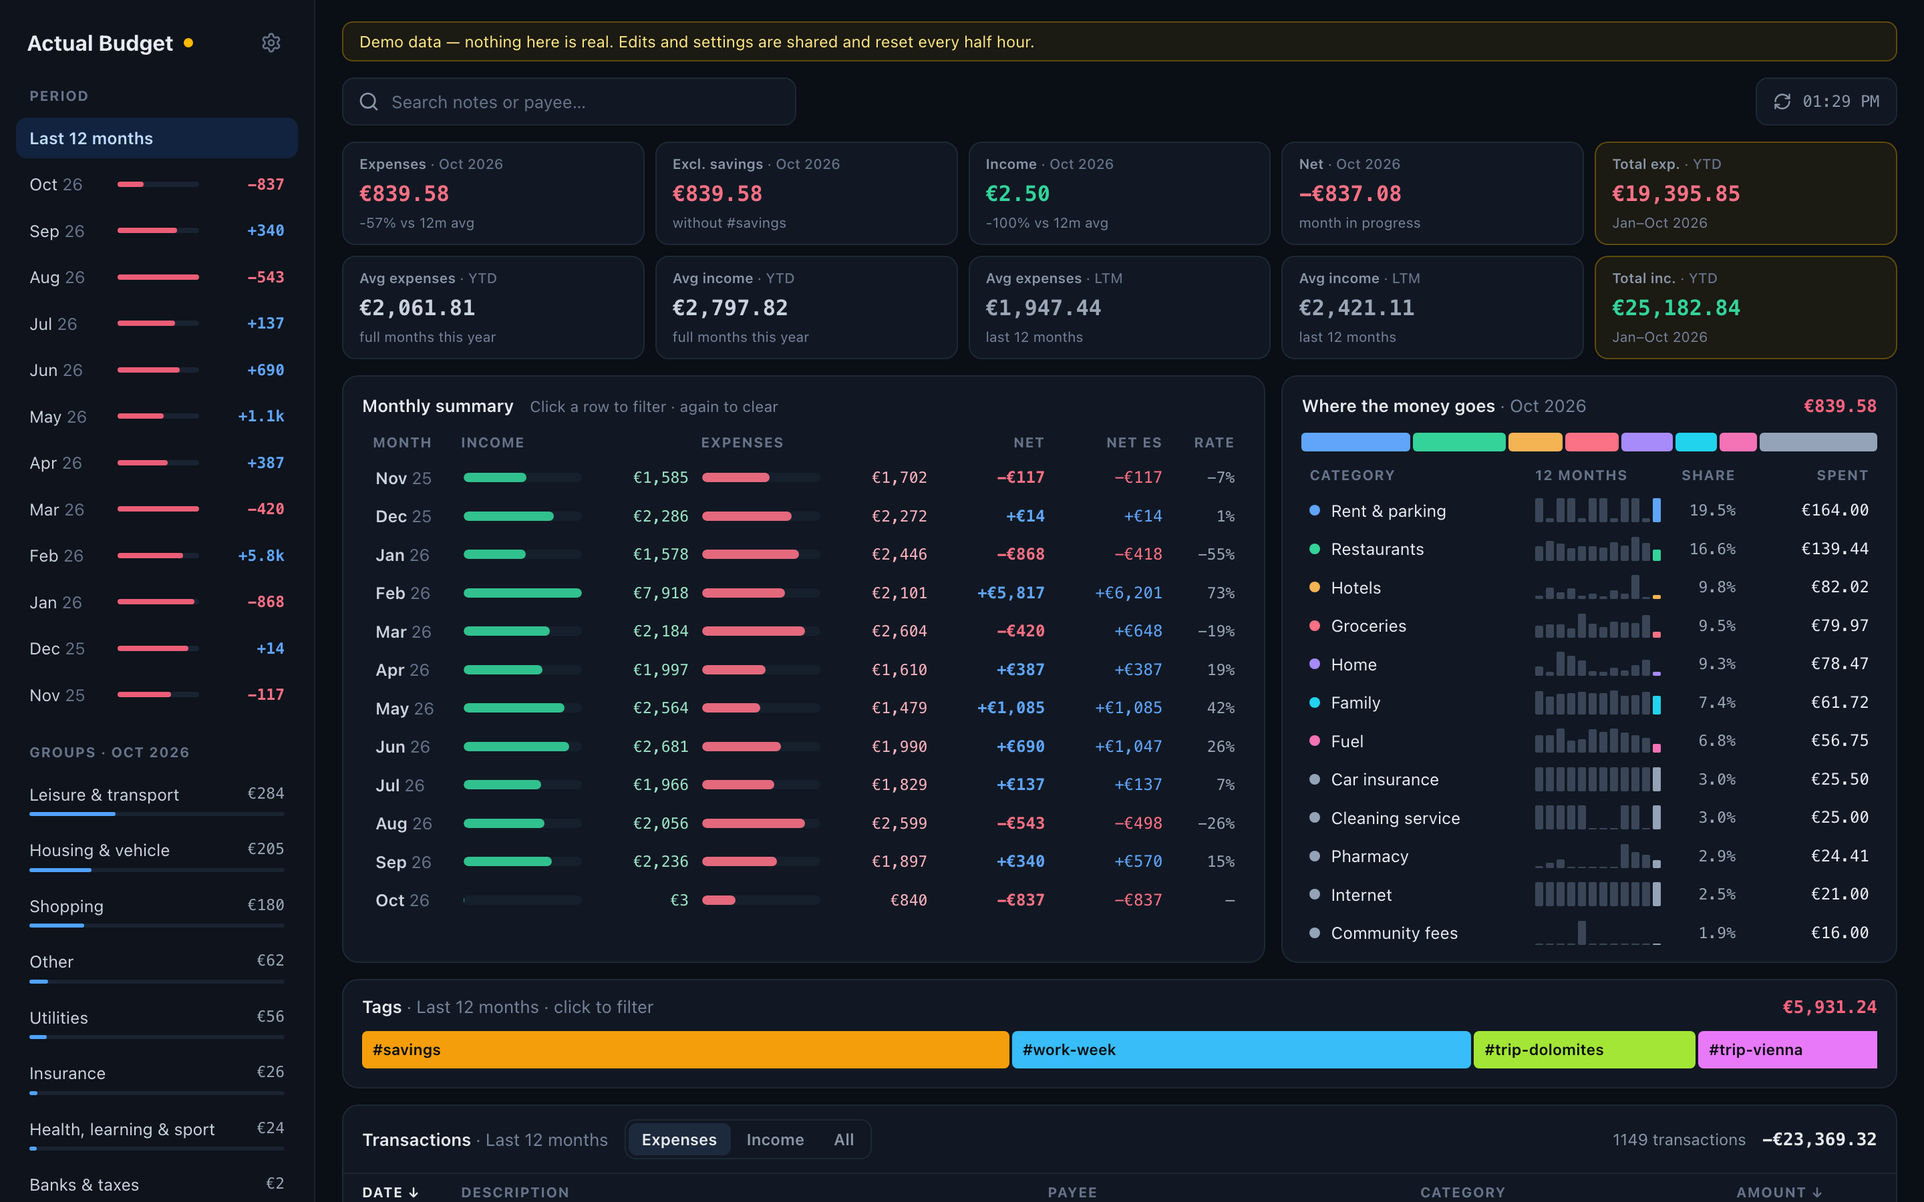
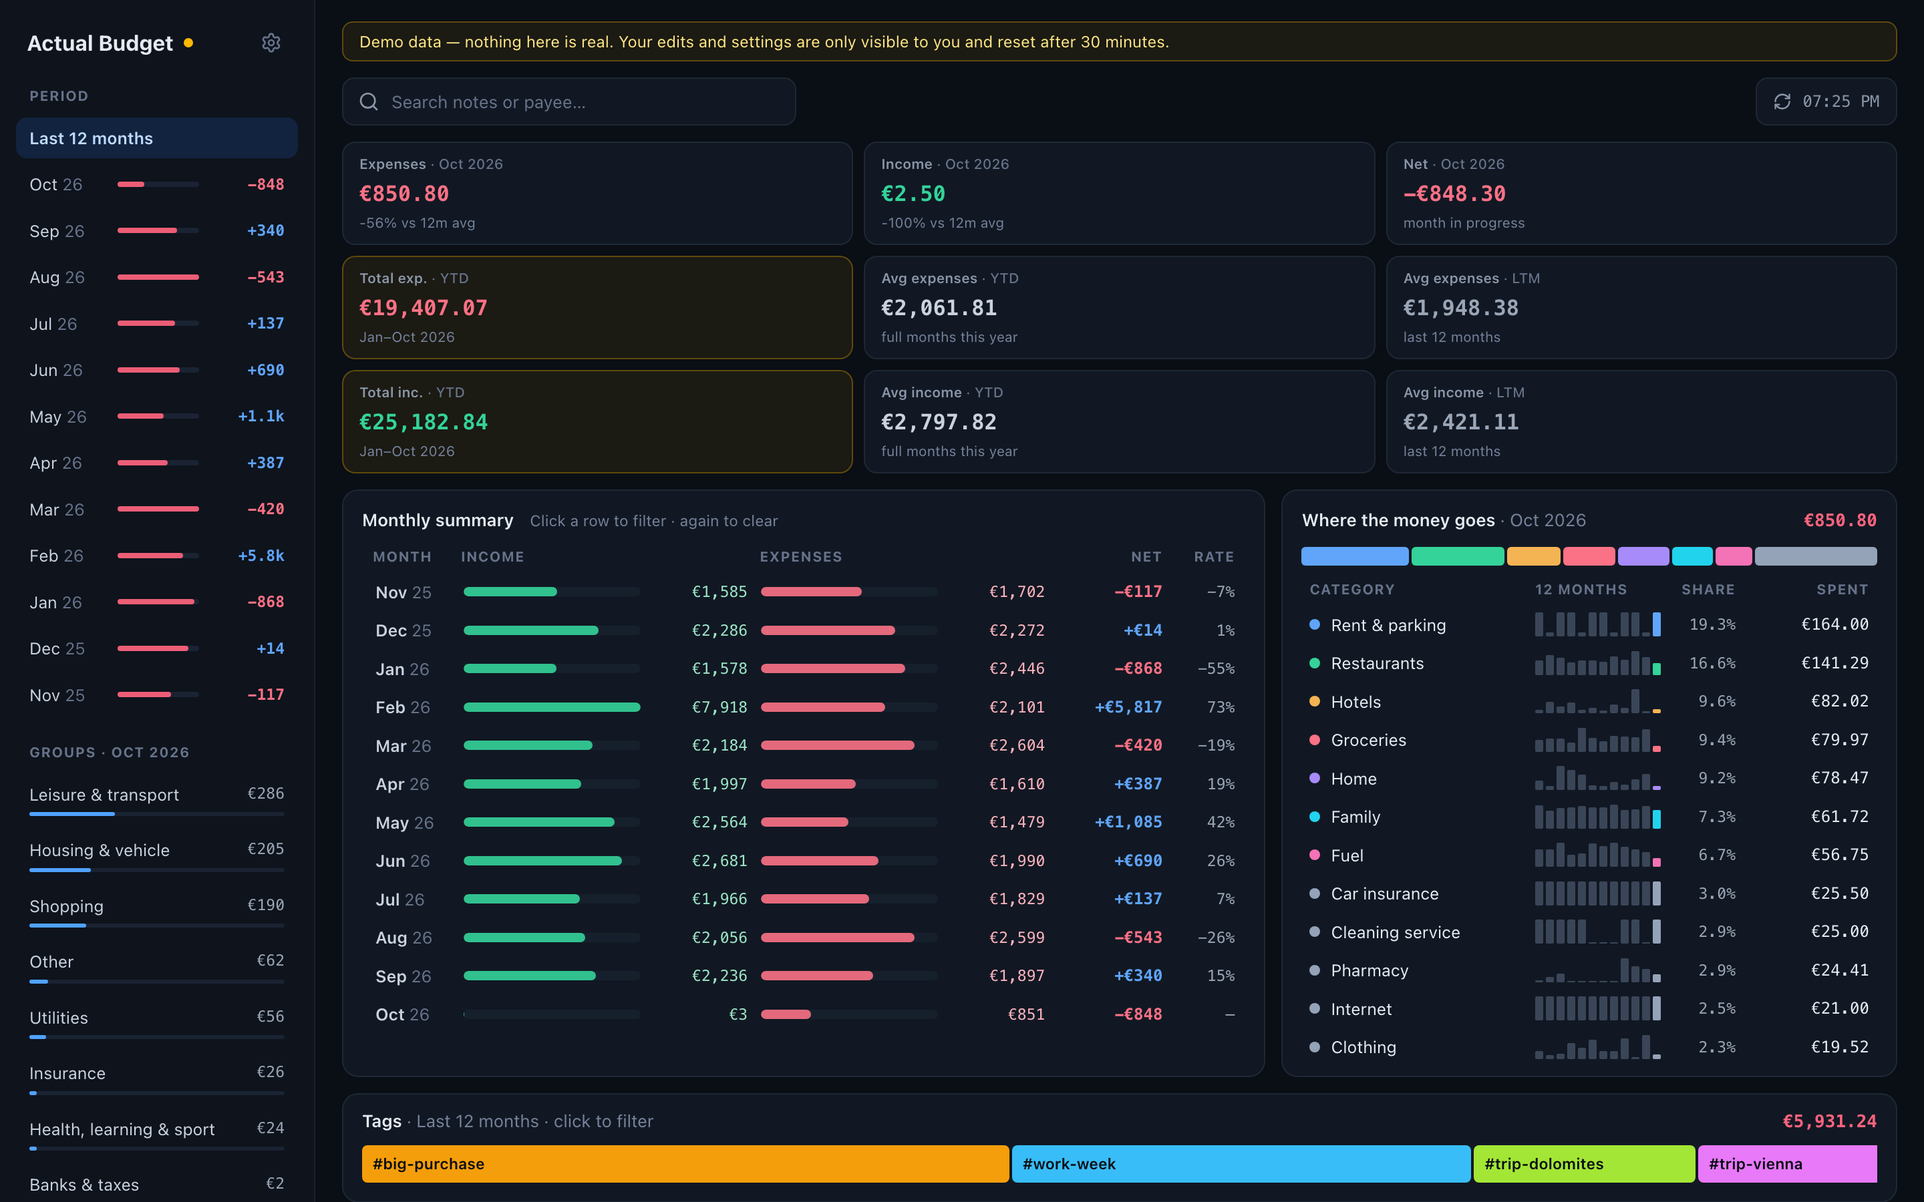
refactor: drop the savings-tag feature from the public dashboard
Removes SAVINGS_TAG and everything built on it: the "Excl. savings" KPI, the "Net ES"
column, expenseExclSavings in /api/overview and /api/summary, and the settings-page field.
KPIs are now nine cards (selected month / expenses / income, a 3x3 grid, one row on very
wide screens). Demo one-offs are tagged #big-purchase instead of #savings. README,
.env.example and screenshots updated. An old settings.json with savingsTag is ignored.

diff --git a/src/components/overview-workspace.tsx b/src/components/overview-workspace.tsx
@@ -47,7 +47,6 @@ const num = 'font-mono tabular-nums';
 export function OverviewWorkspace({ data, onRefresh, refreshing, onEdit }: Props) {
     const F = useMemo(() => makeFmt(data.settings.locale, data.settings.currency), [data.settings.locale, data.settings.currency]);
     const { money: eur, money0: eur0, short } = F;
-    const savingsTag = data.settings.savingsTag;
     const hiddenTags = useMemo(() => new Set(data.settings.hiddenTags), [data.settings.hiddenTags]);
     const [month, setMonth] = useState<string | null>(null);
     const [cat, setCat] = useState<string | null>(null);
@@ -63,14 +62,14 @@ export function OverviewWorkspace({ data, onRefresh, refreshing, onEdit }: Props
     const hasTag = useCallback((t: OverviewTransaction, g: string) => (txTags.get(t.id) || []).includes(g), [txTags]);
 
     // A selected category/group scopes the month totals and KPIs too, rebuilt from the counted
-    // transactions with the same rules as the server (sign split, savings-tag exclusion, averages).
+    // transactions with the same rules as the server (sign split, averages).
     const scoped = useMemo(() => {
         if (!cat && !group && !tag) return { months: data.months, averages: data.averages };
         const match = (t: OverviewTransaction) =>
             (!cat || t.category === cat) && (!group || (data.categoryGroup[t.category] || 'Other') === group) && (!tag || hasTag(t, tag));
         // A tag also rebuilds the per-category split (so "Where the money goes" shows only tagged spend);
         // a category/group keeps the full split so the other categories stay pickable.
-        const by = new Map(data.months.map(m => [m.key, { ...m, income: 0, expense: 0, expenseExclSavings: 0, categories: tag ? {} as Record<string, number> : m.categories }]));
+        const by = new Map(data.months.map(m => [m.key, { ...m, income: 0, expense: 0, categories: tag ? {} as Record<string, number> : m.categories }]));
         for (const t of data.transactions) {
             if (!t.counted) continue;
             const m = by.get(t.date.slice(0, 7));
@@ -79,7 +78,6 @@ export function OverviewWorkspace({ data, onRefresh, refreshing, onEdit }: Props
             if (!match(t)) continue;
             if (t.amount > 0) { m.income += t.amount; continue; }
             m.expense -= t.amount;
-            if (!t.notes?.toLowerCase().includes(savingsTag)) m.expenseExclSavings -= t.amount;
         }
         const months = data.months.map(m => by.get(m.key)!);
         const cur = data.currentMonth;
@@ -95,7 +93,7 @@ export function OverviewWorkspace({ data, onRefresh, refreshing, onEdit }: Props
                 ltmExpense: total(months, 'expense') / 12,
             },
         };
-    }, [data, cat, group, tag, hasTag, savingsTag]);
+    }, [data, cat, group, tag, hasTag]);
     const scopeLabel = [tag && `#${tag.slice(1)}`, cat || group].filter(Boolean).join(' · ');
 
     const km = month || data.currentMonth;
@@ -178,17 +176,17 @@ export function OverviewWorkspace({ data, onRefresh, refreshing, onEdit }: Props
     const ytdExp = ytdMonths.reduce((a, m) => a + m.expense, 0);
     const ytdInc = ytdMonths.reduce((a, m) => a + m.income, 0);
     const ytdSpan = `Jan–${mShort(data.currentMonth)} ${yearKey}`;
+    // Three rows of three: the selected month, then expenses, then income.
     const kpis: { label: string; period: string; value: string; color: string; sub: string; active: boolean; onClick: () => void; ytd?: boolean }[] = [
         { label: 'Expenses', period: mLong(km), value: eur(mi.expense), color: EXP, sub: vsAvg(mi.expense, scoped.averages.ltmExpense), active: kind === 'exp' && !!month, onClick: () => { setKind('exp'); setMonth(km); } },
-        { label: 'Excl. savings', period: mLong(km), value: eur(mi.expenseExclSavings), color: EXP, sub: `without ${savingsTag}`, active: false, onClick: () => { setKind('exp'); setMonth(km); } },
         { label: 'Income', period: mLong(km), value: eur(mi.income), color: INC, sub: vsAvg(mi.income, scoped.averages.ltmIncome), active: kind === 'inc', onClick: () => { setKind('inc'); setMonth(km); } },
         { label: 'Net', period: mLong(km), value: signed(net, eur), color: net >= 0 ? NET : EXP, sub: rate !== null && rate > -100 ? `savings rate ${rate.toFixed(0)}%` : 'month in progress', active: kind === 'all', onClick: () => { setKind('all'); setMonth(km); } },
         { label: 'Total exp.', period: 'YTD', value: eur(ytdExp), color: EXP, sub: ytdSpan, active: false, ytd: true, onClick: () => { setKind('exp'); setMonth(null); } },
         { label: 'Avg expenses', period: 'YTD', value: eur(scoped.averages.ytdExpense), color: '#c9d2de', sub: 'full months this year', active: false, onClick: () => { setKind('exp'); setMonth(null); } },
-        { label: 'Avg income', period: 'YTD', value: eur(scoped.averages.ytdIncome), color: '#c9d2de', sub: 'full months this year', active: false, onClick: () => { setKind('inc'); setMonth(null); } },
         { label: 'Avg expenses', period: 'LTM', value: eur(scoped.averages.ltmExpense), color: '#9aa6b6', sub: 'last 12 months', active: false, onClick: () => { setKind('exp'); setMonth(null); } },
-        { label: 'Avg income', period: 'LTM', value: eur(scoped.averages.ltmIncome), color: '#9aa6b6', sub: 'last 12 months', active: false, onClick: () => { setKind('inc'); setMonth(null); } },
         { label: 'Total inc.', period: 'YTD', value: eur(ytdInc), color: INC, sub: ytdSpan, active: false, ytd: true, onClick: () => { setKind('inc'); setMonth(null); } },
+        { label: 'Avg income', period: 'YTD', value: eur(scoped.averages.ytdIncome), color: '#c9d2de', sub: 'full months this year', active: false, onClick: () => { setKind('inc'); setMonth(null); } },
+        { label: 'Avg income', period: 'LTM', value: eur(scoped.averages.ltmIncome), color: '#9aa6b6', sub: 'last 12 months', active: false, onClick: () => { setKind('inc'); setMonth(null); } },
     ];
 
     const chips: { label: string; clear: () => void }[] = [];
@@ -333,7 +331,7 @@ export function OverviewWorkspace({ data, onRefresh, refreshing, onEdit }: Props
                 {(
                     <>
                         {/* ── KPI ticker ── */}
-                        <section aria-label="Key figures" className="grid grid-cols-2 sm:grid-cols-5 2xl:grid-cols-10 gap-2">
+                        <section aria-label="Key figures" className="grid grid-cols-2 sm:grid-cols-3 2xl:grid-cols-9 gap-2">
                             {kpis.map((k, i) => (
                                 <button
                                     key={i}
@@ -356,12 +354,11 @@ export function OverviewWorkspace({ data, onRefresh, refreshing, onEdit }: Props
                                     {scopeLabel && <span className="rounded-full border border-[#2c4a74] bg-blue-500/10 px-2 py-0.5 text-[11px] font-semibold text-[#bcd6fb]">{scopeLabel}</span>}
                                     <span className="text-[11.5px] text-[#75829a]">Click a row to filter · again to clear</span>
                                 </div>
-                                <div className={`grid grid-cols-[56px_minmax(0,1fr)_minmax(0,1fr)_78px_78px_44px] gap-2.5 px-2 py-1 min-w-[640px] ${label}`}>
-                                    <span>Month</span><span>Income</span><span>Expenses</span><span className="text-right">Net</span><span className="text-right" title={`Net excluding savings: income minus expenses without ${savingsTag}`}>Net ES</span><span className="text-right">Rate</span>
+                                <div className={`grid grid-cols-[56px_minmax(0,1fr)_minmax(0,1fr)_78px_44px] gap-2.5 px-2 py-1 min-w-[560px] ${label}`}>
+                                    <span>Month</span><span>Income</span><span>Expenses</span><span className="text-right">Net</span><span className="text-right">Rate</span>
                                 </div>
                                 {scoped.months.map(m => {
                                     const n = m.income - m.expense;
-                                    const nes = m.income - m.expenseExclSavings; // same exclusion as the "Excl. savings" KPI
                                     const sel = month === m.key;
                                     const dim = !!month && !sel;
                                     const r = m.income > 0 ? (n / m.income) * 100 : null;
@@ -371,13 +368,12 @@ export function OverviewWorkspace({ data, onRefresh, refreshing, onEdit }: Props
                                             type="button"
                                             onClick={() => pickMonth(m.key)}
                                             aria-pressed={sel}
-                                            className={`w-full min-w-[640px] grid grid-cols-[56px_minmax(0,1fr)_minmax(0,1fr)_78px_78px_44px] gap-2.5 items-center px-2 py-[5px] rounded border-l-2 text-left ${focus} ${hover} ${sel ? 'border-blue-400 bg-blue-500/10' : 'border-transparent'}`}
+                                            className={`w-full min-w-[560px] grid grid-cols-[56px_minmax(0,1fr)_minmax(0,1fr)_78px_44px] gap-2.5 items-center px-2 py-[5px] rounded border-l-2 text-left ${focus} ${hover} ${sel ? 'border-blue-400 bg-blue-500/10' : 'border-transparent'}`}
                                         >
                                             <span className="text-[12.5px] font-semibold text-[#c9d2de]">{mShort(m.key)} <span className="font-normal text-[#66738a]">{m.key.slice(2, 4)}</span></span>
                                             <BarCell value={m.income} scale={monthScale.cap} color={INC} textColor="#9ce5c6" dim={dim} fmt={F} />
                                             <BarCell value={m.expense} scale={monthScale.cap} color={EXP} textColor="#fcb3be" dim={dim} fmt={F} />
                                             <span className={`${num} text-right text-xs font-semibold`} style={{ color: n >= 0 ? NET : EXP }}>{signed(n, eur0)}</span>
-                                            <span className={`${num} text-right text-xs`} style={{ color: nes >= 0 ? NET : EXP }}>{signed(nes, eur0)}</span>
                                             <span className={`${num} text-right text-[11.5px] text-[#9aa6b6]`}>{r !== null && r > -100 ? `${r.toFixed(0)}%` : '—'}</span>
                                         </button>
                                     );

diff --git a/src/lib/server/overview.ts b/src/lib/server/overview.ts
@@ -47,12 +47,12 @@ export interface OverviewTransaction {
 
 export interface OverviewData {
   currentMonth: string;
-  months: { key: string; income: number; expense: number; expenseExclSavings: number; categories: Record<string, number> }[];
+  months: { key: string; income: number; expense: number; categories: Record<string, number> }[];
   averages: { ytdIncome: number; ytdExpense: number; ltmIncome: number; ltmExpense: number };
   categoryGroup: Record<string, string>;
   transactions: OverviewTransaction[];
   metadata: { updated: string; allCategories: { id: string; name: string }[]; allPayees: { id: string; name: string }[] };
-  settings: { actualUrl: string; savingsTag: string; hiddenTags: string[]; locale: string; currency: string; demo: boolean };
+  settings: { actualUrl: string; hiddenTags: string[]; locale: string; currency: string; demo: boolean };
 }
 
 // On globalThis so every route bundle shares one snapshot (the settings route invalidates it).
@@ -160,19 +160,17 @@ export async function buildOverview(refresh = false, visitor?: string): Promise<
   const currentMonth = monthKeys[11];
   const windowTrans = rawTrans.filter(t => t.date >= `${monthKeys[0]}-01`);
   const kpiTrans = windowTrans.filter(counted).map(map);
-  const savings = settings.savingsTag;
 
   const months = monthKeys.map(k => {
     const cats: Record<string, number> = {};
-    let inc = 0, exp = 0, excl = 0;
+    let inc = 0, exp = 0;
     for (const t of kpiTrans) {
       if (!t.date.startsWith(k)) continue;
       if (t.amount > 0) { inc += t.amount; continue; }
       exp -= t.amount;
-      if (!t.notes.toLowerCase().includes(savings)) excl -= t.amount;
       cats[t.category] = (cats[t.category] || 0) - t.amount;
     }
-    return { key: k, income: inc, expense: exp, expenseExclSavings: excl, categories: cats };
+    return { key: k, income: inc, expense: exp, categories: cats };
   });
 
   const year = now.getFullYear();
@@ -205,7 +203,6 @@ export async function buildOverview(refresh = false, visitor?: string): Promise<
     },
     settings: {
       actualUrl: settings.actualUrl,
-      savingsTag: settings.savingsTag,
       hiddenTags: settings.hiddenTags,
       locale: settings.locale,
       currency: settings.currency,

diff --git a/src/app/settings/page.tsx b/src/app/settings/page.tsx
@@ -17,7 +17,6 @@ interface State {
 
 interface Form {
   excluded: string[]; // account ids
-  savingsTag: string;
   hiddenTags: string;
   locale: string;
   currency: string;
@@ -34,7 +33,6 @@ function toForm(s: State): Form {
   const ex = s.settings.excludedAccounts;
   return {
     excluded: s.accounts.filter(a => !a.offbudget && (ex.includes(a.id.toLowerCase()) || ex.includes(a.name.toLowerCase()))).map(a => a.id),
-    savingsTag: s.settings.savingsTag,
     hiddenTags: s.settings.hiddenTags.join(', '),
     locale: s.settings.locale,
     currency: s.settings.currency,
@@ -100,7 +98,6 @@ export default function SettingsPage() {
 
   const save = () => call('PUT', {
     excludedAccounts: form.excluded,
-    savingsTag: form.savingsTag,
     hiddenTags: form.hiddenTags,
     locale: form.locale,
     currency: form.currency,
@@ -151,13 +148,7 @@ export default function SettingsPage() {
           {hint('excludedAccounts', d.excludedAccounts.join(', '))}
         </section>
 
-        <section className={`${panel} p-4 grid sm:grid-cols-2 gap-4`}>
-          <label className="flex flex-col gap-1.5">
-            <span className="text-[13px] font-semibold">Savings tag</span>
-            <input className={input} value={form.savingsTag} onChange={e => set({ savingsTag: e.target.value })} placeholder="#savings" />
-            <span className="text-xs text-[#8a96a8]">Expenses with this tag in the notes are left out of “Excl. savings”.</span>
-            {hint('savingsTag', d.savingsTag)}
-          </label>
+        <section className={`${panel} p-4`}>
           <label className="flex flex-col gap-1.5">
             <span className="text-[13px] font-semibold">Hidden tags</span>
             <input className={input} value={form.hiddenTags} onChange={e => set({ hiddenTags: e.target.value })} placeholder="#auto, #imported" />

diff --git a/src/lib/server/settings.ts b/src/lib/server/settings.ts
@@ -10,7 +10,6 @@ export { isDemo };
 export interface Settings {
   actualUrl: string;
   excludedAccounts: string[]; // names or ids, lower-cased
-  savingsTag: string;         // lower-cased, with '#'
   hiddenTags: string[];       // lower-cased, with '#'
   locale: string;
   currency: string;
@@ -19,7 +18,7 @@ export interface Settings {
 }
 
 export type EditableSettings = Omit<Settings, 'actualUrl'>;
-export const EDITABLE: (keyof EditableSettings)[] = ['excludedAccounts', 'savingsTag', 'hiddenTags', 'locale', 'currency', 'historySince', 'syncIntervalMin'];
+export const EDITABLE: (keyof EditableSettings)[] = ['excludedAccounts', 'hiddenTags', 'locale', 'currency', 'historySince', 'syncIntervalMin'];
 
 export class InvalidSetting extends Error {}
 
@@ -47,7 +46,6 @@ export function envSettings(): Settings {
   return {
     actualUrl: isDemo() ? '' : (e.ACTUAL_SERVER_URL || '').replace(/\/$/, ''),
     excludedAccounts: list(e.EXCLUDED_ACCOUNTS),
-    savingsTag: tag(e.SAVINGS_TAG || '#savings'),
     hiddenTags: list(e.HIDDEN_TAGS ?? (isDemo() ? '#auto' : '')).map(tag),
     locale: fmt ? e.LOCALE || 'en-US' : 'en-US',
     currency: fmt ? e.CURRENCY || 'EUR' : 'EUR',
@@ -87,11 +85,6 @@ function strList(v: unknown, name: string): string[] {
 function validate(b: Record<string, unknown>): Partial<EditableSettings> {
   const out: Partial<EditableSettings> = {};
   if (b.excludedAccounts !== undefined) out.excludedAccounts = strList(b.excludedAccounts, 'Excluded accounts');
-  if (b.savingsTag !== undefined) {
-    const t = tag(String(b.savingsTag).trim());
-    if (!TAG_OK.test(t)) throw new InvalidSetting('Savings tag must be a single #word');
-    out.savingsTag = t;
-  }
   if (b.hiddenTags !== undefined) {
     const ts = strList(b.hiddenTags, 'Hidden tags').map(tag);
     const bad = ts.find(t => !TAG_OK.test(t));

diff --git a/src/lib/server/demo.ts b/src/lib/server/demo.ts
@@ -64,8 +64,8 @@ const SPEND: [string, [number, number] | number, [number, number], string[]][] =
   ['Bank fees', 0.3, [0.5, 4], ['Bank']],
 ];
 
-// Big one-offs paid from savings, by calendar month: [day, category, payee, amount, note]
-const FROM_SAVINGS: Record<number, [number, string, string, number, string][]> = {
+// Big one-off purchases, by calendar month: [day, category, payee, amount, note]
+const BIG_PURCHASES: Record<number, [number, string, string, number, string][]> = {
   1: [[14, 'Electronics', 'Gadget Store', 310, 'New laptop'], [22, 'Home', 'HomeBox', 140, 'Desk chair']],
   2: [[9, 'Home', 'Nordic Home', 220, 'Sofa'], [20, 'Gifts', 'GiftHub', 164, 'Wedding gift']],
   3: [[3, 'Community fees', 'Building community', 500, 'Roof repair levy'], [6, 'Electronics', 'PC Parts Direct', 150, 'Monitor'],
@@ -202,7 +202,7 @@ export function demoSnapshot(): Snapshot {
       spend(28, 'Travel', [3, 45], ['Old Town Café', 'City Museum', 'Market Hall', 'Tram Tickets', 'Schnitzel Corner'], '#trip-vienna', d);
     }
 
-    for (const [d, category, payee, eur, note] of FROM_SAVINGS[cal] || []) add(d, 'acc-salary', -eur, payee, category, `${note} #savings`);
+    for (const [d, category, payee, eur, note] of BIG_PURCHASES[cal] || []) add(d, 'acc-salary', -eur, payee, category, `${note} #big-purchase`);
 
     // Two split purchases: each parent's children carry the categories (as the live loader expands them).
     if (back === 2) {

diff --git a/src/app/api/summary/route.ts b/src/app/api/summary/route.ts
@@ -16,7 +16,6 @@ export async function GET(request: NextRequest) {
       month: d.currentMonth,
       income: r2(m.income),
       expense: r2(m.expense),
-      expenseExclSavings: r2(m.expenseExclSavings),
       net: r2(m.income - m.expense),
       averages: Object.fromEntries(Object.entries(d.averages).map(([k, v]) => [k, r2(v)])),
       currency: d.settings.currency,

diff --git a/README.md b/README.md
@@ -48,7 +48,7 @@ The bundled Actual API must match your actual-server's major version. Image tags
 
 ## Configuration
 
-The gear icon opens the settings page: excluded accounts, tags, number format, history start and
+The gear icon opens the settings page: excluded accounts, hidden tags, number format, history start and
 sync interval. Changes apply at once and are saved to `/data/settings.json`. The environment
 variables below are the defaults; **Reset to defaults** on the settings page goes back to them, and
 headless setups can use env alone.
@@ -67,7 +67,6 @@ headless setups can use env alone.
 | `ACTUAL_DATA_DIR` | `/data` in the image | Budget cache and `settings.json` (mount a volume here) |
 | `SYNC_INTERVAL_MIN` | `15` | Pull server changes every N minutes (the refresh button syncs now) |
 | `EXCLUDED_ACCOUNTS` | unset | Accounts left out of KPIs, by name or id, comma-separated. Off-budget accounts are always excluded |
-| `SAVINGS_TAG` | `#savings` | Tag in notes that marks savings; the "Excl. savings" figures leave it out |
 | `HIDDEN_TAGS` | unset | Tags hidden from the tag strip (automation markers), comma-separated |
 | `LOCALE` / `CURRENCY` | `en-US` / `EUR` | Number formatting |
 | `HISTORY_SINCE` | 13 months ago | Earliest date loaded from the budget |
